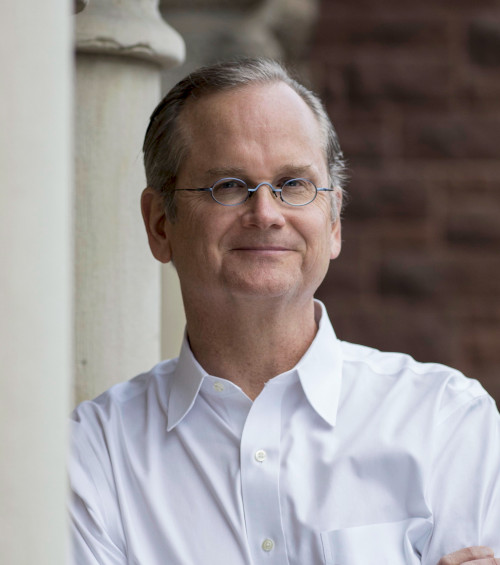
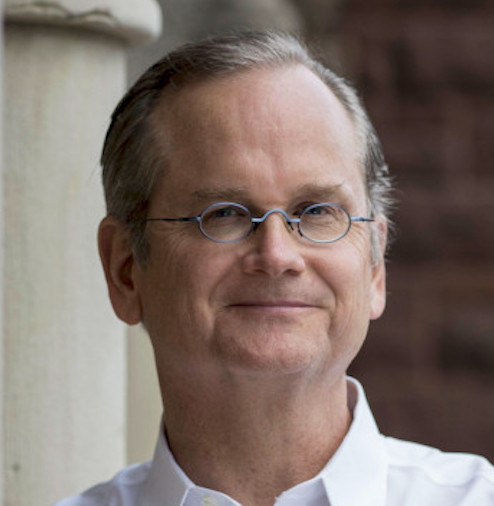
Edited speaker photos and added the schedule.

diff --git a/2022/index.html b/2022/index.html
@@ -57,7 +57,7 @@
                     <nav class="bs-docs-sidebar sticky-top">
                         <ul class="nav flex-column nav-pills">
                             <li class="nav-item"><a class="nav-link active" href="#news">News</a></li>
-                            <!-- <li class="nav-item"><a class="nav-link" href="#schedule">Schedule</a></li> -->
+                            <li class="nav-item"><a class="nav-link" href="#schedule">Schedule</a></li>
                             <li class="nav-item"><a class="nav-link" href="#speakers">Invited speakers</a></li>
                             <li class="nav-item"><a class="nav-link" href="#papers">Accepted papers</a></li>
                             <li class="nav-item"><a class="nav-link" href="#dates">Key dates</a></li>
@@ -96,12 +96,75 @@
 
                     <!-- Schedule
                          ================================================== -->
-                    <!-- <section id="schedule">
+                   <section id="schedule">
                          <div class="page-header">
                          <h1>Schedule</h1>
                          </div>
+                         <p>The times in the table below are in
+                         UTC. 12:00 UTC is 5:00 in San Francisco, 8:00 in
+                         New York City, 15:00 in Nairobi, and 20:00 in
+                         Beijing.</p>
+                         <table class="table table-nonfluid">
+                             <tbody>
+                                 <tr>
+                                     <td>12:00&nbsp;-&nbsp;12:30</td>
+                                     <td>Welcome and icebreaking</td></tr>
+                                 <tr>
+                                     <td>12:30&nbsp;-&nbsp;13:20</td>
+                                     <td>Paper Session I</td>
+                                 </tr>
+                                 <tr>
+                                     <td>13:20&nbsp;-&nbsp;13:25</td>
+                                     <td>Break</td>
+                                 </tr>
+                                 <tr>
+                                     <td>13:25&nbsp;-&nbsp;13:35</td>
+                                     <td>Music Break: Ugnė Danielė Reikalaitė</td>
+                                 </tr>
+                                 <tr>
+                                     <td>13:35&nbsp;-&nbsp;14:30</td>
+                                     <td>Paper Session II</td>
+                                 </tr>
+                                 <tr>
+                                     <td>14:30&nbsp;-&nbsp;14:40</td>
+                                     <td>Break</td>
+                                 </tr>
+                                 <tr>
+                                     <td>14:40&nbsp;-&nbsp;15:40</td>
+                                     <td>Poster Session</td>
+                                 </tr>
+                                 <tr>
+                                     <td>15:40&nbsp;-&nbsp;15:55</td>
+                                     <td>Break and Live Music</td>
+                                 </tr>
+                                 <tr>
+                                     <td>15:55&nbsp;-&nbsp;16:50</td>
+                                     <td>Panel discussion moderated by Erik Moeller, featuring Tiffiniy Cheng, Mishi Choudhary, and Cory Doctorow - "10 Years After the SOPA/PIPA Blackout: The Past and Future of Online Protest"</td>
+                                 </tr>
+                                 <tr>
+                                     <td>16:50&nbsp;-&nbsp;17:00</td>
+                                     <td>Music Break: Ugnė Danielė Reikalaitė</td>
+                                 </tr>
+                                 <tr>
+                                     <td>17:00&nbsp;-&nbsp;17:15</td>
+                                     <td>Wikimedia Foundation Research Award of the Year</td>
+                                 </tr>
+                                 <tr>
+                                     <td>17:15&nbsp;-&nbsp;17:20</td>
+                                     <td>Break</td>
+                                 </tr>
+                                 <tr>
+                                     <td>17:20&nbsp;-&nbsp;18:20</td>
+                                     <td>Keynote by Lawrence Lessig - "How can the Internet be so bad and so good: The lessons we must draw and that Wiki must teach"</td>
+                                 </tr>
+                                 <tr>
+                                     <td>18:20&nbsp;-&nbsp;18:30</td>
+                                     <td>Closing</td>
+                                 </tr>
+                             </tbody>
+                         </table>
                          </section>
-                    -->
+
                     <!-- Speakers
                          ================================================== -->
                     <section id="speakers">
@@ -118,7 +181,6 @@
                                 <p class = "small"> Photo by Jessica Scranton<p>
                             </div>
                             <div class="col-sm-6 col-md-10">
-                                <h5>Bio</h5>
                                 <p>Lawrence Lessig is the Roy L. Furman Professor of Law and Leadership at Harvard Law School. Prior to returning to Harvard, he taught at Stanford Law School, where he founded the Center for Internet and Society, and at the University of Chicago. He clerked for Judge Richard Posner on the 7th Circuit Court of Appeals and for Justice Antonin Scalia on the United States Supreme Court.
 Lessig is the founder of Equal Citizens and a founding board member of Creative Commons, and serves on the Scientific Board of AXA Research Fund. A member of the American Academy of Arts and Sciences and the American Philosophical Society, he has received numerous awards including a Webby, the Free Software Foundation's Freedom Award, Scientific American 50 Award, and Fastcase 50 Award.
 Cited by The New Yorker as “the most important thinker on intellectual property in the Internet era,” Lessig has turned his focus from law and technology to “institutional corruption”—relationships which, while legal, weaken public trust in an institution—especially as that affects democracy.
@@ -136,7 +198,6 @@ Lessig holds a BA in economics and a BS in management from the University of Pen
                                 <br/>
                             </div>
                             <div class="col-sm-6 col-md-10">
-                                <h5>Bio</h5>
                                 <p>
                                     Erik is VP of Engineering at Freedom of the Press Foundation. He was
                                     Deputy Director of the Wikimedia Foundation from January 2008 to April
@@ -161,7 +222,6 @@ Lessig holds a BA in economics and a BS in management from the University of Pen
                                 <br/>
                             </div>
                             <div class="col-sm-6 col-md-10">
-                                    <h5>Bio</h5>
                                     <p>
                                         Tiffiniy Cheng is a Political and Internet Strategist for A-teams. She co-founded Fight for the Future and is a Shuttleworth Fellow.
                                           </p>
@@ -172,11 +232,12 @@ Lessig holds a BA in economics and a BS in management from the University of Pen
                                 <h3>Mishi Choudhary (<a href="https://softwarefreedom.org/">Software Freedom Law Center</a>)</h3>
                               </div>
                             <div class="col-sm-6 col-md-2">
-                              <img src="https://upload.wikimedia.org/wikipedia/commons/7/72/Mishi_Choudhary-republica16b.JPG" alt="Mishi Choudhary" class="pull-left gap-right img-rounded" width="100%"/>
+                              <img src="image/Mishi_Choudhary-republica16b.jpeg" alt="Mishi Choudhary" class="pull-left gap-right img-rounded" width="100%"/>
+                              <br/>
+                              <p class = "small"> Photo by By Ot (CC BY-SA 4.0)<p>
                               <br/>
                           </div>
                           <div class="col-sm-6 col-md-10">
-                                  <h5>Bio</h5>
                                   <p>
                                       Mishi Choudhary is a technology lawyer and an online civil liberties activist with law practice in New York and New Delhi. The Open magazine calls her an emerging legal guardian of the free and open internet. She is the Legal Director of the New York based <a href="https://softwarefreedom.org/">Software Freedom Law Center</a> and Partner at <a href="https://moglenassociates.com/">Moglen & Associates</a>. At SFLC, Mishi has served as the primary legal representative of many of the world's most significant free software developers and non-profit distributors, including Debian, the Apache Software Foundation, and OpenSSL. She advises technology startups and established businesses around the world on intellectual property matters in particular on open source software licensing and strategy, export control compliance, diversity and inclusion, data protection and content moderation.
                                         </p>
@@ -187,15 +248,14 @@ Lessig holds a BA in economics and a BS in management from the University of Pen
                                 <h3>Cory Doctorow (<a href="eff.org">Electronic Frontier Foundation</a>)</h3>
                               </div>
                               <div class="col-sm-6 col-md-2">
-                                  <img src="https://upload.wikimedia.org/wikipedia/commons/a/a9/Cory_Doctorow_portrait_by_Jonathan_Worth_2.jpg" alt="Cory Doctorow" class="pull-left gap-right img-rounded" width="100%"/>
+                                  <img src="image/Cory_Doctorow_portrait_by_Jonathan_Worth_2.jpeg" alt="Cory Doctorow" class="pull-left gap-right img-rounded" width="100%"/>
                                   <br/>
                                   <p class = "small"> Photo by Jonathan Worth (CC BY-SA 2.0)<p>
                                   <br/>
                               </div>
                               <div class="col-sm-6 col-md-10">
-                                  <h5>Bio</h5>
                                   <p>
-                                      Cory Doctorow (craphound.com) is a science fiction author, activist and journalist. He is the author of many books, most recently RADICALIZED and WALKAWAY, science fiction for adults; HOW TO DESTROY SURVEILLANCE CAPITALISM, nonfiction about monopoly and conspiracy; IN REAL LIFE, a graphic novel; and the picture book POESY THE MONSTER SLAYER. His latest book is ATTACK SURFACE, a standalone adult sequel to LITTLE BROTHER; his next nonfiction book is CHOKEPOINT CAPITALISM, with Rebecca Giblin, about monopoly and fairness in the creative arts labor market, (Beacon Press, 2022). In 2020, he was inducted into the Canadian Science Fiction and Fantasy Hall of Fame. (<a href="https://craphound.com/bio/">Learn more</a>)
+                                      Cory Doctorow is a science fiction author, activist and journalist. He is the author of many books, most recently RADICALIZED and WALKAWAY, science fiction for adults; HOW TO DESTROY SURVEILLANCE CAPITALISM, nonfiction about monopoly and conspiracy; IN REAL LIFE, a graphic novel; and the picture book POESY THE MONSTER SLAYER. His latest book is ATTACK SURFACE, a standalone adult sequel to LITTLE BROTHER; his next nonfiction book is CHOKEPOINT CAPITALISM, with Rebecca Giblin, about monopoly and fairness in the creative arts labor market, (Beacon Press, 2022). In 2020, he was inducted into the Canadian Science Fiction and Fantasy Hall of Fame. (<a href="https://craphound.com/bio/">Learn more</a>)
                                   </p>
                               </div>
                         </div>
